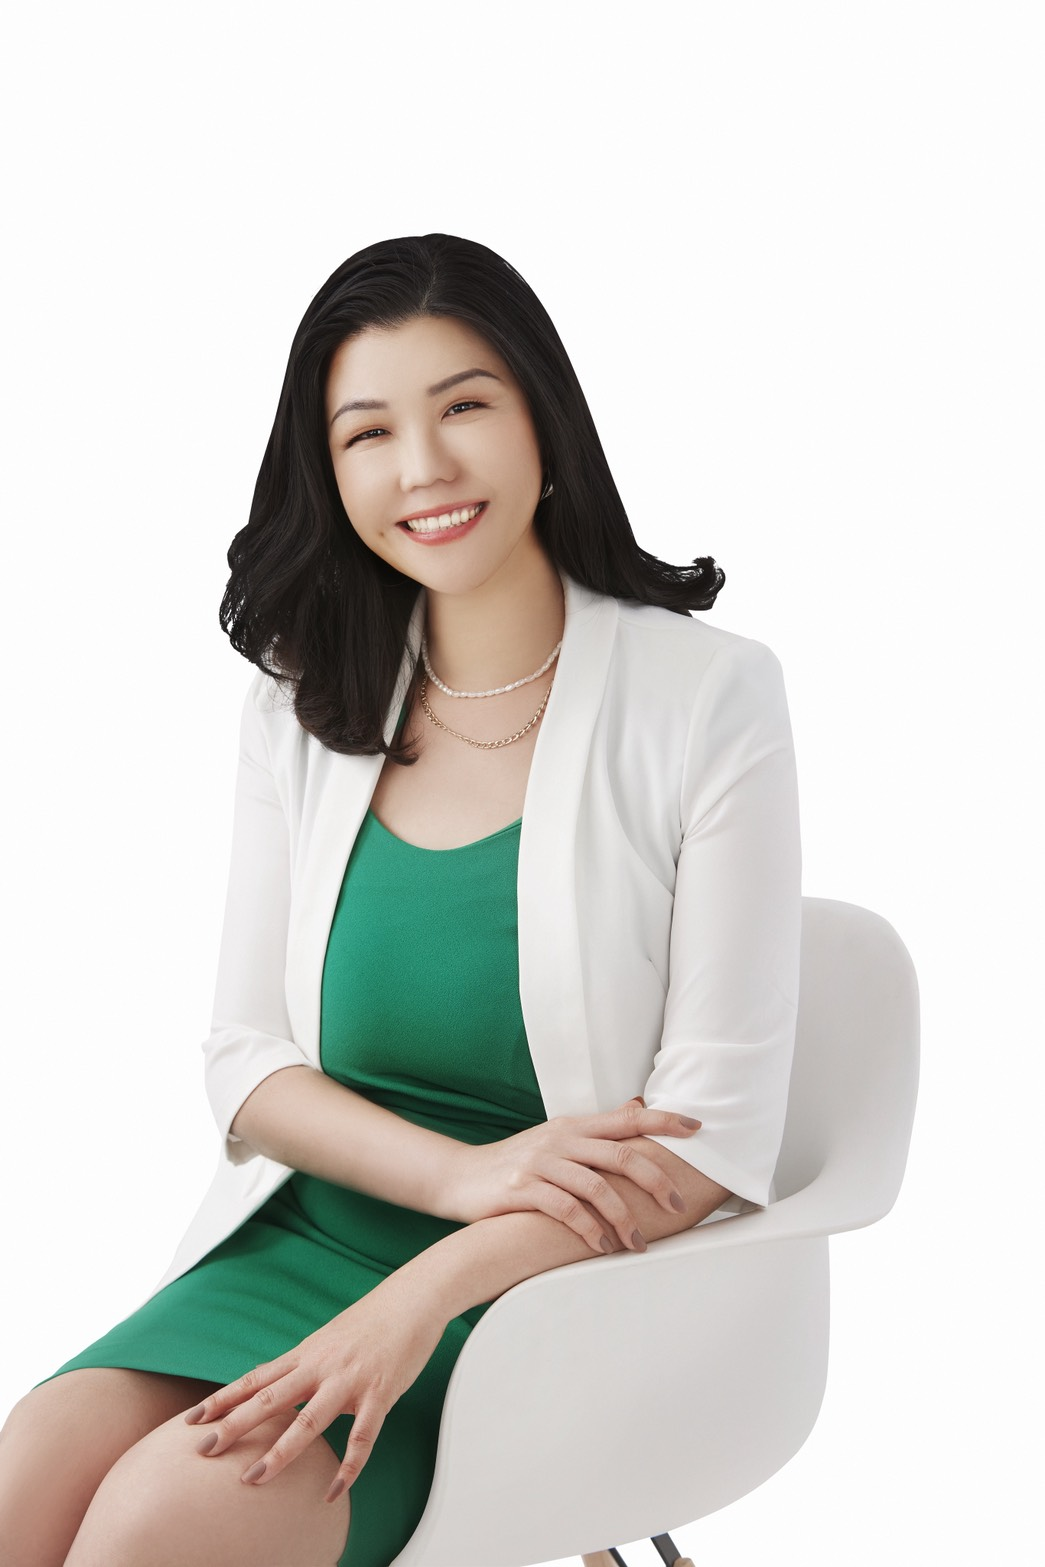
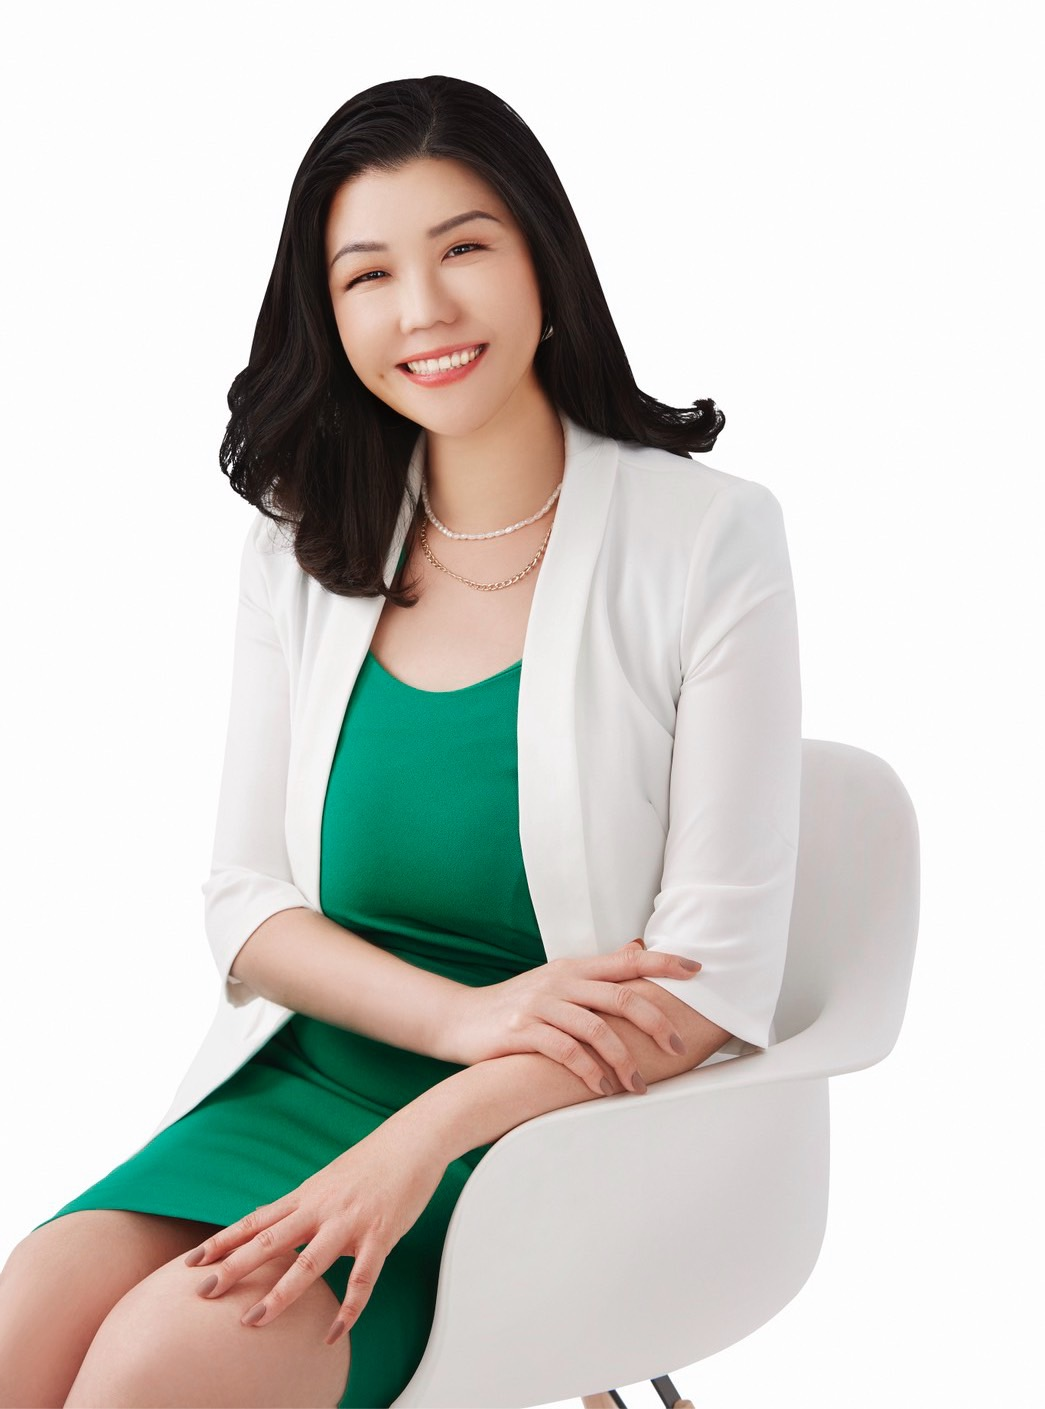
feat: add chief image & update chief of staff image position

diff --git a/src/views/LeadershipPage.vue b/src/views/LeadershipPage.vue
@@ -15,7 +15,7 @@
           <h2 class="text-3xl font-bold text-gray-800 mb-4">本屆理事會</h2>
           <div class="w-20 h-1 bg-red-600 mx-auto mb-4"></div>
           <p class="text-gray-600 max-w-2xl mx-auto">
-            第X屆理事會成員由行業內著名企業領導和專業人士組成，任期20xx年至20xx年
+            第21屆理事會成員由行業內著名企業領導和專業人士組成
           </p>
         </div>
         
@@ -23,16 +23,13 @@
         <div class="mb-16">
           <div class="flex flex-col md:flex-row items-center gap-8 max-w-4xl mx-auto">
             <div class="w-64 h-64 overflow-hidden rounded-full border-4 border-red-100 shadow-lg flex-shrink-0">
-              <img src="../assets/male_icon.png" alt="理事長" class="w-full h-full object-cover">
+              <img src="../assets/chief.jpg" alt="理事長" class="w-full h-full object-cover">
             </div>
             <div>
               <h3 class="text-2xl font-bold text-gray-800 mb-2">蔡思庭</h3>
               <p class="text-red-600 font-medium mb-4">理事長</p>
               <p class="text-gray-600 mb-4 leading-relaxed">
-                蔡思庭先生現任XX集團有限公司董事長，在行業內擁有超過30年的豐富經驗。他於20xx年當選為協會第x屆理事長，致力於推動行業技術創新和國際化發展。
-              </p>
-              <p class="text-gray-600 leading-relaxed">
-                在他的領導下，協會積極推動行業標準制定，促進企業間合作，為行業持續健康發展作出重要貢獻。
+                酷斯拉咖啡執行長、紅橘子早午餐連鎖創辦人、愛現貓烘焙總經理、天天蛋餅飯糰顧問、天天韓式炙燒鍋顧問。
               </p>
             </div>
           </div>
@@ -42,7 +39,7 @@
         <div class="mb-16">
           <div class="flex flex-col md:flex-row items-center gap-8 max-w-4xl mx-auto">
             <div class="w-48 h-48 overflow-hidden rounded-full border-4 border-red-100 shadow-lg flex-shrink-0">
-              <img src="../assets/chiefOfStaff.jpg" alt="秘書長" class="w-full h-full object-cover">
+              <img src="../assets/chiefOfStaff.jpg" alt="秘書長" class="w-full h-full object-cover object-top">
             </div>
             <div>
               <h3 class="text-xl font-bold text-gray-800 mb-2">蕭雅梅</h3>
